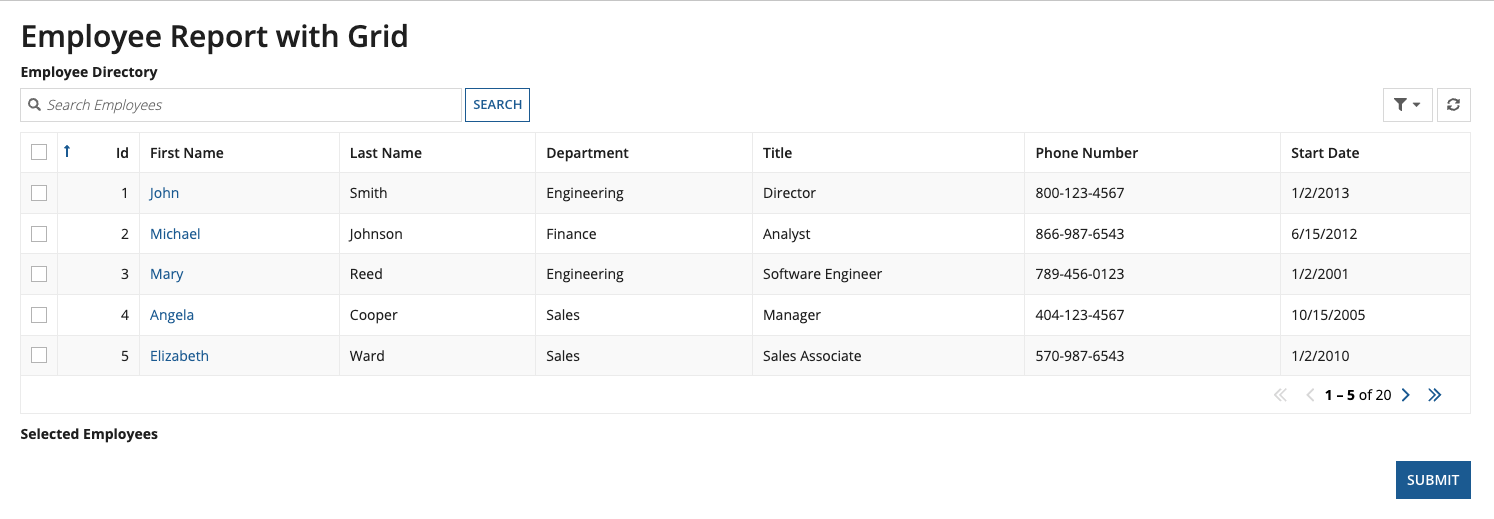
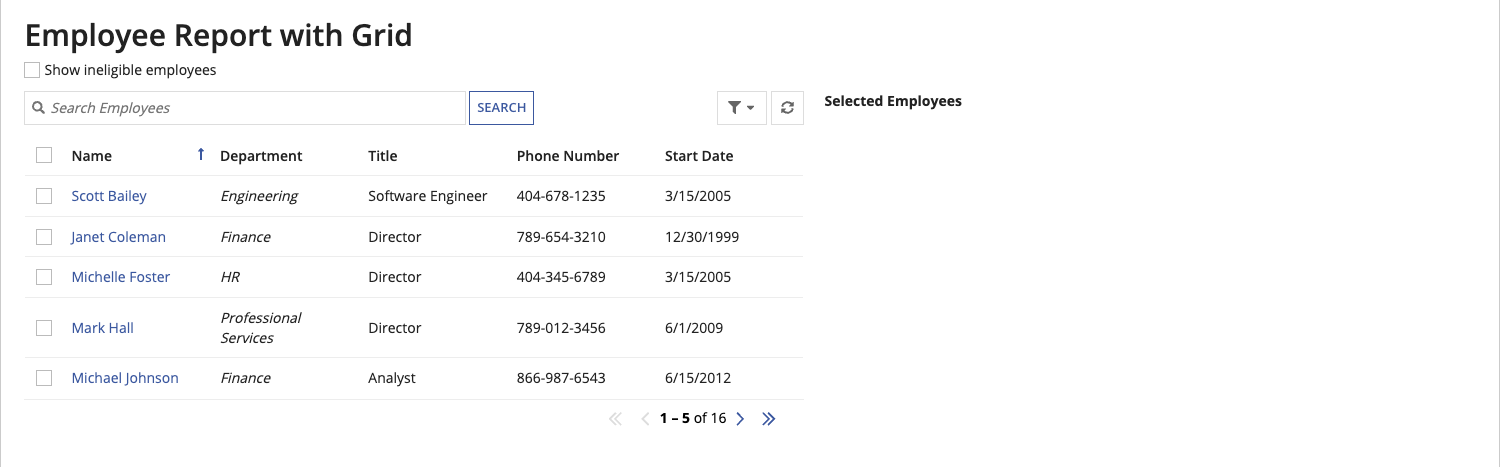
Fix example tests and match with online documentation
1. updated example config and admin config files with required  values to run tests
2. Cleaned up records test
3. Updated grids test
4. updated multi user locust file example with class names matching online documentation.

diff --git a/examples/example_locust_test_records.py b/examples/example_locust_test_records.py
@@ -6,9 +6,12 @@ import random
 from locust import HttpUser, task, between
 
 from appian_locust import AppianTaskSet
-from appian_locust.loadDriverUtils import utls
-from appian_locust import logger
+from appian_locust.utilities.loadDriverUtils import loadDriverUtils
+from appian_locust.utilities import logger
 
+# loadDriverUtils looks for a configuration file in your test's directory named 'config.json'.
+# You can alter this behavior by passing your configuration file name into load_config. Eg: load_config(config_file='<your-config-file.json>')
+utls = loadDriverUtils()
 utls.load_config()
 CONFIG = utls.c
 
@@ -19,7 +22,7 @@ class RecordsTaskSet(AppianTaskSet):
 
     def on_start(self):
         super().on_start()
-        self.all_records = self.appian.records.get_all()
+
 
         # could be either view or list:
         if "endpoint_type" not in CONFIG:	 # could be either view or list:
@@ -42,36 +45,13 @@ class RecordsTaskSet(AppianTaskSet):
     @task(10)
     def visit_random_record(self):
         if "view" in self.endpoint_type:
-            dashboards = self._request_record_dashboards(
-                random.choice((True, False)))
-            for url_stub in dashboards:
-                self.appian.records.visit(
-                    view_url_stub=url_stub,
-                    exact_match=True)
+            self.appian.visitor.visit_record_instance()
 
     @task(10)
-    def visit_random_record_type_list(self):
+    def visit_employee_record_type_list(self):
         if "list" in self.endpoint_type:
-            self.appian.records.visit_record_type()
-
-    @task(1)
-    def visit_random_record_and_get_form(self):
-        if "view" in self.endpoint_type:
-            record_type = random.choice((
-                self.appian.records._get_random_record_type(), ""))
-            self.appian.records.visit_record_instance_and_get_form(
-                record_type=record_type)
-
-    @task(1)
-    def visit_random_record_type_list_and_get_form(self):
-        if "list" in self.endpoint_type:
-            self.appian.records.visit_record_type_and_get_form()
-
-    def _request_record_dashboards(self, default_dashboard):
-        if default_dashboard or "view_url_stubs" not in CONFIG:
-            return [""]
-        return CONFIG["view_url_stubs"]
-
+            record_list = self.appian.visitor.visit_record_type("Employees")
+            record_list.filter_records_using_searchbox("Janet Coleman")
 
 class RecordsUserActor(HttpUser):
     tasks = [RecordsTaskSet]
@@ -81,6 +61,5 @@ class RecordsUserActor(HttpUser):
     # for each task run, ie this script has no waiting by default.
     wait_time = between(0.500, 0.500)
 
-    host = "https://" + utls.c['host_address']
-    auth = utls.c["auth"]
-    config = utls.c
+    host = "https://" + CONFIG['host_address']
+    auth = CONFIG["auth"]

diff --git a/examples/example_multi_user_locustfile.py b/examples/example_multi_user_locustfile.py
@@ -2,41 +2,44 @@ from locust import HttpUser, task, between
 from appian_locust import AppianTaskSet
 from appian_locust.utilities import loadDriverUtils
 
+# loadDriverUtils looks for a configuration file in your test's directory named 'config.json'.
+# You can alter this behavior by passing your configuration file name into load_config. Eg: load_config(config_file='<your-config-file.json>')
+# Example config file for this test is in this directory with name 'example_admin_config.json'
 utls = loadDriverUtils()
 utls.load_config()
 
-class RegularUserTaskSet(AppianTaskSet):
+class GetFrontPageTaskSet(AppianTaskSet):
     @task
     def browse_records(self):
         # Regular user workflow
         self.appian.visitor.visit_site("support", "tickets")
 
-class ManagerUserTaskSet(AppianTaskSet):
+class GetAdminPageTaskSet(AppianTaskSet):
     @task
     def manager_operations(self):
         # Manager-specific workflow with elevated permissions
         self.appian.visitor.visit_site("manager", "overview")
 
-class RegularUserActor(HttpUser):
+class FrontendUserActor(HttpUser):
     """
     Regular users that interact with standard interfaces.
     Weight will be relative to all defined weights, 4 in this example.
     In this configuration we expect 3 regular users for every manager user.
     """
-    tasks = [RegularUserTaskSet]
+    tasks = [GetFrontPageTaskSet]
     host = f'https://{utls.c["host_address"]}'
-    auth = utls.c["auth"][0]  # First auth entry
+    auth = utls.c["auth"][1]  # Frontend user auth entry
     wait_time = between(0.5, 1.0)
     weight = 3
 
-class ManagerUserActor(HttpUser):
+class AdminUserActor(HttpUser):
     """
     Manager users with elevated privileges and different workflows.
     Weight will be relative to all defined weights, 4 in this example.
     In this configuration we expect 3 regular users for every manager user.
     """
-    tasks = [ManagerUserTaskSet]
+    tasks = [GetAdminPageTaskSet]
     host = f'https://{utls.c["host_address"]}'
-    auth = utls.c["auth"][1]  # Second auth entry
+    auth = utls.c["auth"][0]  # Admin user auth entry
     wait_time = between(1.0, 2.0)
     weight = 1

diff --git a/examples/example_locust_test_grids.py b/examples/example_locust_test_grids.py
@@ -1,7 +1,16 @@
+import sys
 from appian_locust import AppianTaskSet
-from locust import HttpUser, task
+from locust import HttpUser, task,between
+from appian_locust.utilities.loadDriverUtils import loadDriverUtils
+from appian_locust.utilities import logger
 
+# loadDriverUtils looks for a configuration file in your test's directory named 'config.json'.
+# You can alter this behavior by passing your configuration file name into load_config. Eg: load_config(config_file='<your-config-file.json>')
+utls = loadDriverUtils()
+utls.load_config()
+CONFIG = utls.c
 
+logger = logger.getLogger(__file__)
 class GridTaskSet(AppianTaskSet):
 
     @task
@@ -21,11 +30,16 @@ class GridTaskSet(AppianTaskSet):
         # Select the first row on the second page of the grid
         report_uiform.select_rows_in_grid(rows=[0], label="Employee Directory", append_to_existing_selected=True)
 
-        # Click on the row with a record link with the given label
-        report_uiform.click_record_link(label="William")
+        # Click on the row with a record link with the given label (Change label name below with the one that presents in UI after above steps)
+        report_uiform.click_record_link(label="Paul Martin")
 
-
-class UserActor(HttpUser):
+class GridUserActor(HttpUser):
     tasks = [GridTaskSet]
-    host = 'https://mysitename.net'
-    auth = ["myusername", "mypassword"]
+
+    # These determine how long each user waits between @task runs.
+    # A random wait time will be chosen between min_wait and max_wait
+    # for each task run, ie this script has no waiting by default.
+    wait_time = between(0.500, 0.500)
+
+    host = "https://" + CONFIG['host_address']
+    auth = CONFIG["auth"]

diff --git a/appian_locust/docs/source/examples/appian_locust_grids_example.rst b/appian_locust/docs/source/examples/appian_locust_grids_example.rst
@@ -2,7 +2,7 @@
 Locust Test Example: Grids
 ############################
 
-An example of a Locust Test showing interaction with Appian Grids - `example_locust_test_grids.py <https://gitlab.com/appian-oss/appian-locust/-/blob/master/examples/example_locust_test_grids.py>`_.
+An example of a Locust Test showing interaction with Appian Grids - `example_locust_test_grids.py <https://gitlab.com/appian-oss/appian-locust/-/blob/main/examples/example_locust_test_grids.py>`_.
 
 This test has a locust task defined that will interact with a read-only paging grid layout that contains an Employee directory. Configuration for this grid layout is inspired by Appian's `Grid Tutorial <https://docs.appian.com/suite/help/latest/Grid_Tutorial.html>`_.
 The goal of this test is to select all Engineering employees and view the details for one of them.
@@ -84,7 +84,7 @@ The interface will look similar to this:
 .. image:: ../_images/grid_select_first_row_second_page.png
   :alt: Selected first row in second page of grid
 
-The grid contains a *First Name* column which is a link to the employee record. Finally, we will click on the link for an employee *William*:
+The grid contains a *First Name Last Name* column which is a link to the employee record. Finally, we will click on the link for an employee *Paul Martin*:
 
 .. code-block:: python
 
@@ -106,11 +106,11 @@ The grid contains a *First Name* column which is a link to the employee record. 
         report_uiform.select_rows_in_grid(rows=[0], label="Employee Directory", append_to_existing_selected=True)
 
         # Click on the row with a record link with the given label
-        report_uiform.click_record_link(label="William")
+        report_uiform.click_record_link(label="Paul Martin")
 
 The user will be navigated to the employee's record which will look similar to this:
 
 .. image:: ../_images/grid_click_record_link_result.png
-  :alt: Record view for William Ross
+  :alt: Record view for Paul Martin
 
-You can see a full version of this locust test `here <https://gitlab.com/appian-oss/appian-locust/-/blob/master/examples/example_locust_test_grids.py>`_. There are other useful functions for interacting with grids that can be found in our `documentation <https://appian-locust.readthedocs.io/en/latest/_api/modules/uiform.html>`_.
+You can see a full version of this locust test `here <https://gitlab.com/appian-oss/appian-locust/-/blob/main/examples/example_locust_test_grids.py>`_. There are other useful functions for interacting with grids that can be found in our `documentation <https://appian-locust.readthedocs.io/en/latest/_api/modules/uiform.html>`_.

diff --git a/appian_locust/docs/source/examples/appian_locust_records_example.rst b/appian_locust/docs/source/examples/appian_locust_records_example.rst
@@ -2,7 +2,7 @@
 Locust Test Example: Records
 ############################
 
-An example of a Locust Test showing interaction with Appian Records - `example_locust_test_records.py <https://gitlab.com/appian-oss/appian-locust/-/blob/master/examples/example_locust_test_records.py>`_.
+An example of a Locust Test showing interaction with Appian Records - `example_locust_test_records.py <https://gitlab.com/appian-oss/appian-locust/-/blob/main/examples/example_locust_test_records.py>`_.
 
 This test has 2 locust tasks defined and it will execute all three for each spawned locust user for the duration of the test.
 
@@ -46,10 +46,10 @@ For example: If there are two tasks with weights 3 and 6 then second task will h
 
         @task(X)
         # this task visits a random record type list and return the SAIL form.
-        def visit_random_record_type_list(self):
+        def visit_employee_record_type_list(self):
             if "list" in self.endpoint_type:
-                record_list = self.appian.records.visit_record_type_and_get_form()
-                record_list.filter_records_using_searchbox("Favorite Record Name")
+              record_list = self.appian.visitor.visit_record_type("Employees")
+              record_list.filter_records_using_searchbox("Janet Coleman")
 
 - By calling super().on_start() inside the on_start() function of the locust test you get access to the appian client which allows
   you to call *self.appian.visitor, self.appian.system_operator* etc. These properties allow us to navigate to a specific

diff --git a/appian_locust/docs/source/examples/advanced_examples.rst b/appian_locust/docs/source/examples/advanced_examples.rst
@@ -58,7 +58,7 @@ Here's a snippet showing how to run a test for a set number of iterations.
         wait_time = between(0.500, 0.500)
 
 
-Note: ``CONFIG["num_of_iterations"]`` is retrieved from the test configuration. This should be provided in the `example_config.json <https://gitlab.com/appian-oss/appian-locust/-/blob/master/examples/example_config.json>`_ file.
+Note: ``CONFIG["num_of_iterations"]`` is retrieved from the test configuration. This should be provided in the `example_config.json <https://gitlab.com/appian-oss/appian-locust/-/blob/main/examples/example_config.json>`_ file.
 
 The way to achieve specific number of tasks in this test is by having a counter in your task, that you increment once in a specific Locust task and then stop the test when you have reached the desired number of iterations.
 

diff --git a/appian_locust/docs/source/examples/appian_locust_multiple_users_example.rst b/appian_locust/docs/source/examples/appian_locust_multiple_users_example.rst
@@ -2,7 +2,7 @@
 Locust Test Example: Multiple Users
 ####################################
 
-An example of a Locust Test showing interaction with the frontend and admin pages - `example_multi_user_locustfile.py <https://gitlab.com/appian-oss/appian-locust/-/blob/master/examples/example_multi_user_locustfile.py>`_.
+An example of a Locust Test showing interaction with the frontend and admin pages - `example_multi_user_locustfile.py <https://gitlab.com/appian-oss/appian-locust/-/blob/main/examples/example_multi_user_locustfile.py>`_.
 
 This test has 2 locust TaskSets defined and 2 HttpUsers defined that simulate different login information.
 
